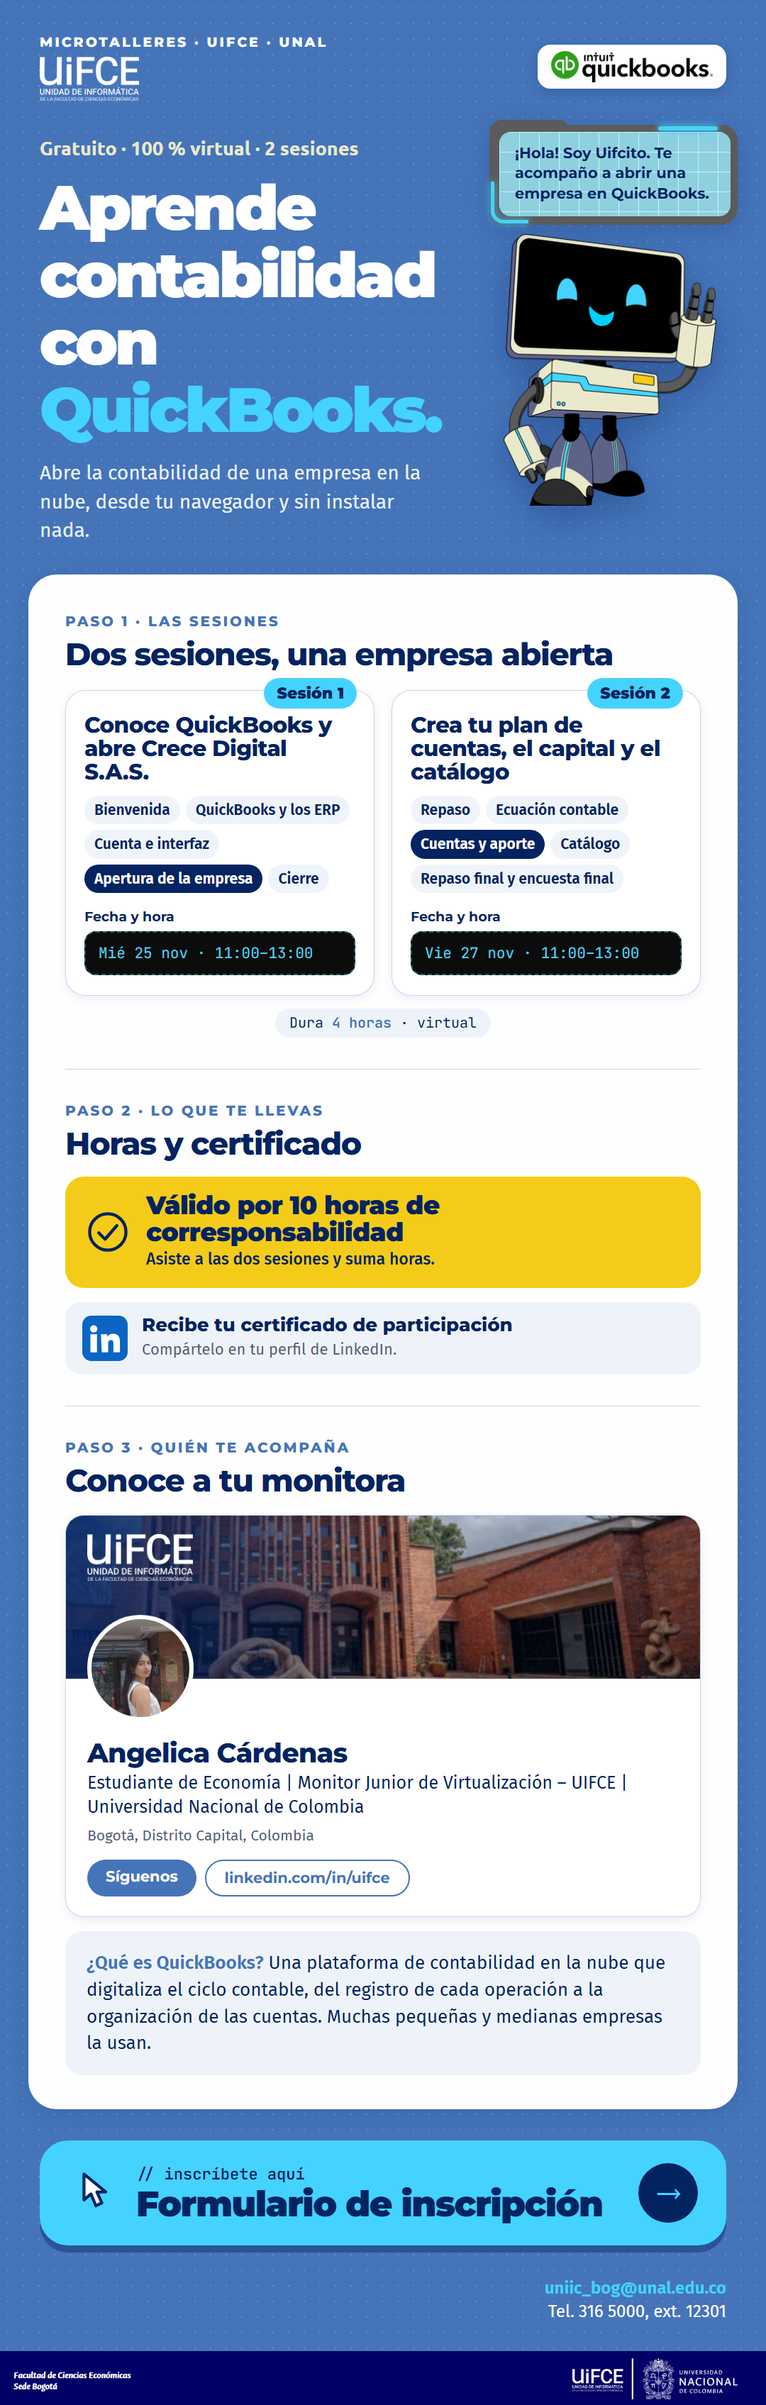
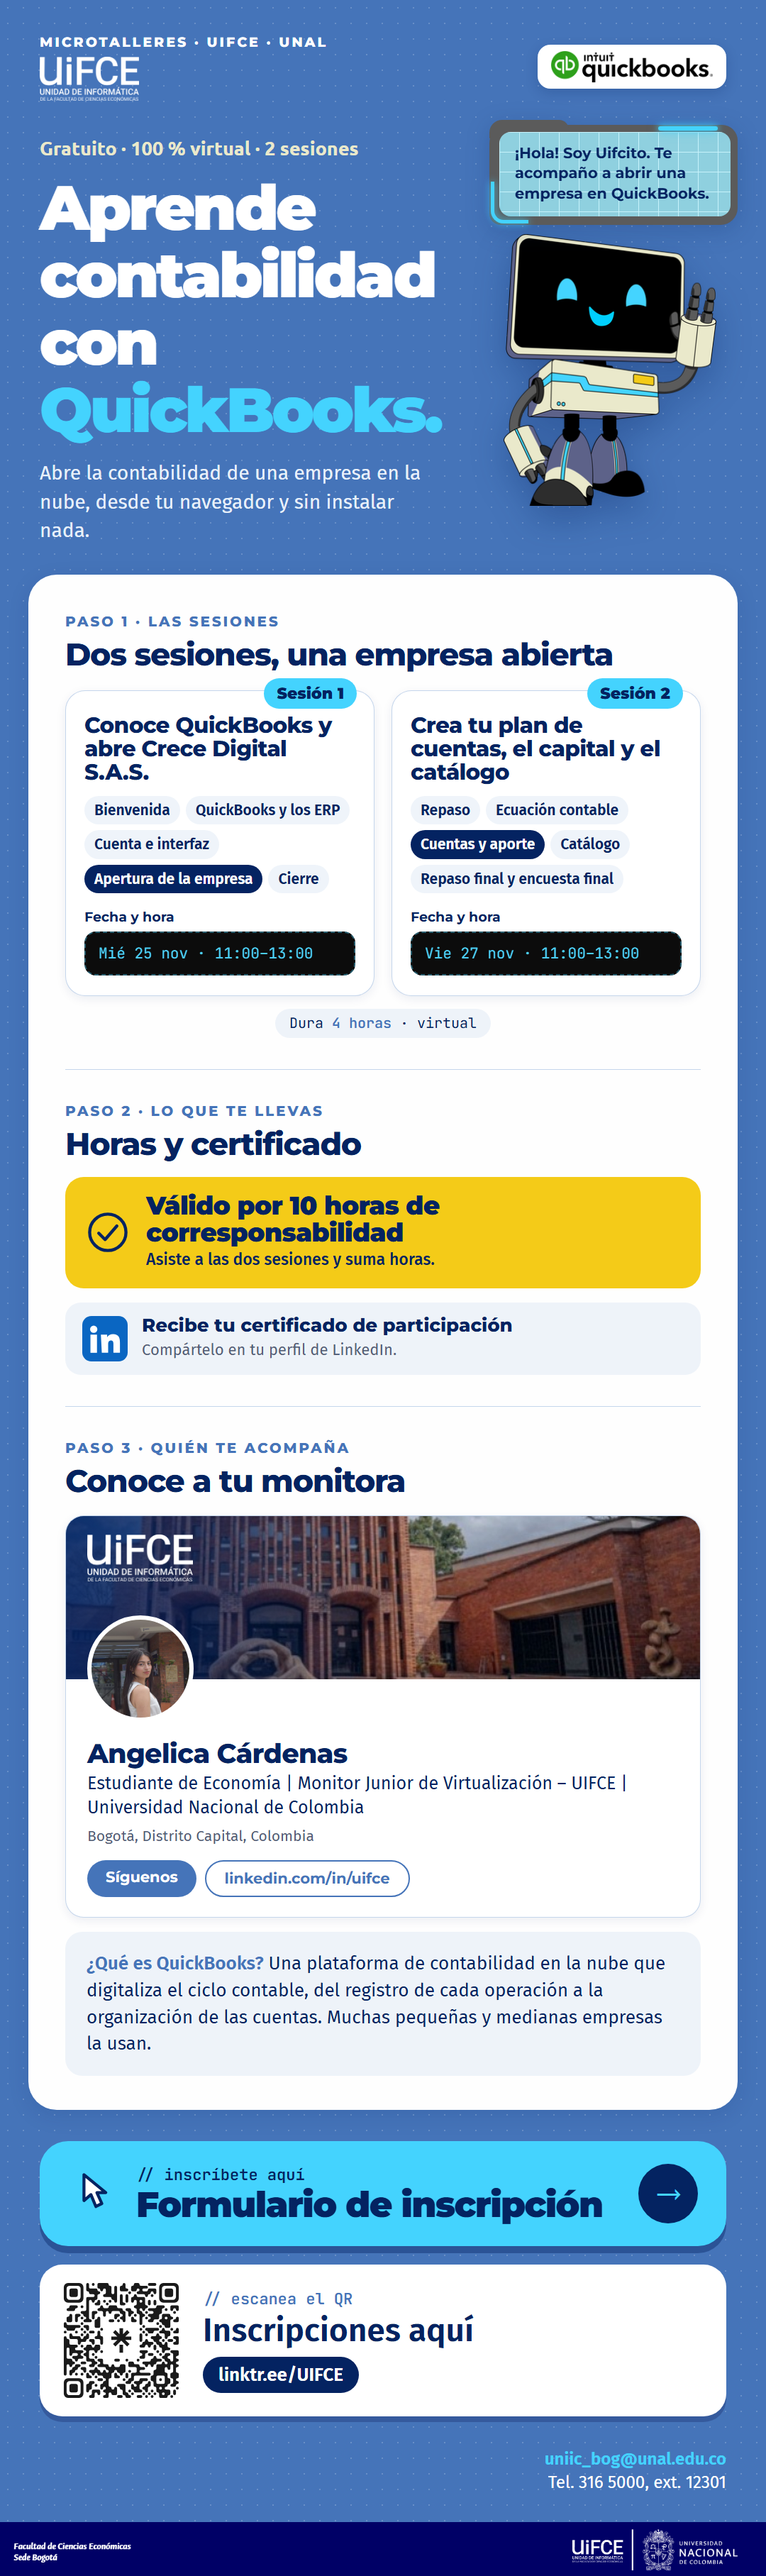
Agrega QR a linktr.ee/UIFCE (Inscripciones aquí) en las 4 propuestas y ajusta alturas

diff --git a/index.html b/index.html
@@ -44,24 +44,24 @@
 <main>
   <section class="panel" id="p1" role="tabpanel" aria-labelledby="tab-1">
     <div class="actions"><a href="propuesta-1/infografia.png" download>Descargar PNG ↓</a></div>
-    <div class="frame" id="frame1"><iframe id="if1" src="propuesta-1/index.html" title="Propuesta 1" scrolling="no" width="1080" height="3563"></iframe></div>
+    <div class="frame" id="frame1"><iframe id="if1" src="propuesta-1/index.html" title="Propuesta 1" scrolling="no" width="1080" height="3803"></iframe></div>
   </section>
   <section class="panel" id="p2" role="tabpanel" aria-labelledby="tab-2" hidden>
     <div class="actions"><a href="propuesta-2/infografia.png" download>Descargar PNG ↓</a></div>
-    <div class="frame" id="frame2"><iframe id="if2" src="propuesta-2/index.html" title="Propuesta 2" scrolling="no" width="1080" height="4296"></iframe></div>
+    <div class="frame" id="frame2"><iframe id="if2" src="propuesta-2/index.html" title="Propuesta 2" scrolling="no" width="1080" height="4536"></iframe></div>
   </section>
   <section class="panel" id="p3" role="tabpanel" aria-labelledby="tab-3" hidden>
     <div class="actions"><a href="propuesta-3/infografia.png" download>Descargar PNG ↓</a></div>
-    <div class="frame" id="frame3"><iframe id="if3" src="propuesta-3/index.html" title="Propuesta 3" scrolling="no" width="1080" height="3391"></iframe></div>
+    <div class="frame" id="frame3"><iframe id="if3" src="propuesta-3/index.html" title="Propuesta 3" scrolling="no" width="1080" height="3631"></iframe></div>
   </section>
   <section class="panel" id="p4" role="tabpanel" aria-labelledby="tab-4" hidden>
     <div class="actions"><a href="propuesta-4/infografia.png" download>Descargar PNG ↓</a></div>
-    <div class="frame" id="frame4"><iframe id="if4" src="propuesta-4/index.html" title="Propuesta 4" scrolling="no" width="1080" height="2877"></iframe></div>
+    <div class="frame" id="frame4"><iframe id="if4" src="propuesta-4/index.html" title="Propuesta 4" scrolling="no" width="1080" height="3117"></iframe></div>
   </section>
 </main>
 <script>
   var tabs=document.querySelectorAll('nav button'), panels={1:document.getElementById('p1'),2:document.getElementById('p2'),3:document.getElementById('p3'),4:document.getElementById('p4')};
-  var SIZES={1:[1080,3563],2:[1080,4296],3:[1080,3391],4:[1080,2877]};
+  var SIZES={1:[1080,3803],2:[1080,4536],3:[1080,3631],4:[1080,3117]};
   function fit(){
     var cw=document.documentElement.clientWidth;
     [1,2,3,4].forEach(function(n){

diff --git a/propuesta-1/index.html b/propuesta-1/index.html
@@ -22,7 +22,7 @@
     --mono:Consolas,'SFMono-Regular',Menlo,monospace;
   }
   *{box-sizing:border-box;margin:0;padding:0}
-  body{width:1080px;height:3563px;background:var(--canvas);font-family:var(--font);color:var(--navy);position:relative;overflow:hidden}
+  body{width:1080px;height:3803px;background:var(--canvas);font-family:var(--font);color:var(--navy);position:relative;overflow:hidden}
 
   /* ---------- Encabezado de boletín ---------- */
   .top{display:flex;height:112px;background:#fff}
@@ -161,6 +161,11 @@
   .foot .contact{text-align:right;font-size:26px;line-height:1.4}
   .foot .contact strong{color:var(--yellow);font-weight:700}
   .btn{display:inline-block;background:var(--cyan);color:var(--navy);border-radius:999px;padding:14px 30px;font-weight:800;font-size:28px}
+  .qrc{display:flex;align-items:center;gap:30px;margin:26px 0 0;background:#fff;border-radius:32px;padding:22px 30px;text-decoration:none;color:var(--navy);box-shadow:0 8px 0 rgba(0,0,60,.22)}
+  .qrc img{width:170px;height:170px;flex:none;display:block}
+  .qrc small{display:block;font-family:var(--mono);font-size:22px;font-weight:700;color:var(--soft)}
+  .qrc b{display:block;font-weight:800;font-size:46px;line-height:1.05;margin-top:4px;color:var(--navy)}
+  .qrc i{display:inline-block;margin-top:12px;font-style:normal;background:var(--navy);color:#fff;border-radius:999px;padding:7px 22px;font-size:26px;font-weight:700}
 </style>
 </head>
 <body>
@@ -265,6 +270,7 @@
 <div class="bar-sec" style="margin-top:56px"><span class="mono">05 / Participa</span><span class="mono r">// inscripciones</span></div>
 <section class="sec">
   <a class="go" href="https://forms.gle/NDuZddRCizTjMTBQ8" target="_blank" rel="noopener"><svg viewBox="0 0 50 50" width="64" height="64" aria-hidden="true" style="flex:none"><path d="M16 6v26l7-6 5 12 6-3-5-11h9z" fill="#FFFF00" stroke="#000066" stroke-width="3" stroke-linejoin="round"/></svg><span class="gt"><small>// inscríbete aquí</small><b>Formulario de inscripción</b></span><span class="ga">→</span></a>
+  <a class="qrc" href="https://linktr.ee/UIFCE" target="_blank" rel="noopener"><img src="assets/qr-uifce.svg" alt="Código QR a linktr.ee/UIFCE"><span><small>// escanea el QR</small><b>Inscripciones aquí</b><i>linktr.ee/UIFCE</i></span></a>
 </section>
 
 <footer class="foot">

diff --git a/propuesta-4/index.html b/propuesta-4/index.html
@@ -63,6 +63,11 @@
   .go b{display:block;font-weight:800;font-size:52px;line-height:1.05;letter-spacing:-.01em}
   .go .ga{flex:none;width:88px;height:88px;border-radius:50%;background:var(--navy);color:var(--gold);display:flex;align-items:center;justify-content:center;font-size:52px;font-weight:800}
   .footer{display:block;width:1080px;position:relative}
+  .qrc{display:flex;align-items:center;gap:30px;margin:26px 0 0;background:#fff;border-radius:32px;padding:22px 30px;text-decoration:none;color:var(--navy);box-shadow:0 8px 0 rgba(0,0,60,.22)}
+  .qrc img{width:170px;height:170px;flex:none;display:block}
+  .qrc small{display:block;font-family:var(--font);font-size:22px;font-weight:700;color:var(--blue)}
+  .qrc b{display:block;font-weight:800;font-size:46px;line-height:1.05;margin-top:4px;color:var(--navy)}
+  .qrc i{display:inline-block;margin-top:12px;font-style:normal;background:var(--navy);color:#fff;border-radius:999px;padding:7px 22px;font-size:26px;font-weight:700}
 </style>
 </head>
 <body>
@@ -103,6 +108,7 @@
   <p class="what"><b>¿Qué es QuickBooks?</b> Una plataforma de contabilidad en la nube que digitaliza el ciclo contable, del registro de cada operación a la organización de las cuentas. Muchas pequeñas y medianas empresas la usan.</p>
 
 <a class="go" href="https://forms.gle/NDuZddRCizTjMTBQ8" target="_blank" rel="noopener"><svg viewBox="0 0 50 50" width="76" height="76" aria-hidden="true" style="flex:none"><path d="M16 6v26l7-6 5 12 6-3-5-11h9z" fill="#F7C32E" stroke="#04255f" stroke-width="3" stroke-linejoin="round"/></svg><span class="gt"><small>Inscríbete aquí</small><b>Formulario de inscripción</b></span><span class="ga">→</span></a>
+  <a class="qrc" href="https://linktr.ee/UIFCE" target="_blank" rel="noopener"><img src="assets/qr-uifce.svg" alt="Código QR a linktr.ee/UIFCE"><span><small>// escanea el QR</small><b>Inscripciones aquí</b><i>linktr.ee/UIFCE</i></span></a>
   <div class="cta" style="justify-content:flex-end">
     <div class="contact"><strong>uniic_bog@unal.edu.co</strong><br>Tel. 316 5000, ext. 12301<br>LinkedIn: <strong>linkedin.com/in/uifce</strong></div>
   </div>

diff --git a/propuesta-2/index.html b/propuesta-2/index.html
@@ -110,6 +110,11 @@
   .go b{display:block;font-weight:800;font-size:56px;line-height:1.02;letter-spacing:-.01em}
   .go .ga{flex:none;width:92px;height:92px;border-radius:50%;background:var(--navy);color:var(--gold);display:flex;align-items:center;justify-content:center;font-size:54px;font-weight:800}
   .footer{display:block;width:1080px;margin-top:56px}
+  .qrc{display:flex;align-items:center;gap:30px;margin:26px 0 0;background:#fff;border-radius:32px;padding:22px 30px;text-decoration:none;color:var(--navy);box-shadow:0 8px 0 rgba(0,0,60,.22)}
+  .qrc img{width:170px;height:170px;flex:none;display:block}
+  .qrc small{display:block;font-family:var(--mono);font-size:22px;font-weight:700;color:var(--blue)}
+  .qrc b{display:block;font-weight:800;font-size:46px;line-height:1.05;margin-top:4px;color:var(--navy)}
+  .qrc i{display:inline-block;margin-top:12px;font-style:normal;background:var(--navy);color:#fff;border-radius:999px;padding:7px 22px;font-size:26px;font-weight:700}
 </style>
 </head>
 <body>
@@ -182,6 +187,7 @@
   </section>
 
 <a class="go" href="https://forms.gle/NDuZddRCizTjMTBQ8" target="_blank" rel="noopener"><svg viewBox="0 0 50 50" width="76" height="76" aria-hidden="true" style="flex:none"><path d="M16 6v26l7-6 5 12 6-3-5-11h9z" fill="#F7C32E" stroke="#000066" stroke-width="3" stroke-linejoin="round"/></svg><span class="gt"><small>// inscríbete aquí</small><b>Formulario de inscripción</b></span><span class="ga">→</span></a>
+  <a class="qrc" href="https://linktr.ee/UIFCE" target="_blank" rel="noopener"><img src="assets/qr-uifce.svg" alt="Código QR a linktr.ee/UIFCE"><span><small>// escanea el QR</small><b>Inscripciones aquí</b><i>linktr.ee/UIFCE</i></span></a>
   <div class="cta" style="justify-content:flex-end">
     <div class="contact"><strong>uniic_bog@unal.edu.co</strong><br>Tel. 316 5000, ext. 12301<br>LinkedIn: <strong>linkedin.com/in/uifce</strong></div>
   </div>

diff --git a/propuesta-3/index.html b/propuesta-3/index.html
@@ -95,6 +95,11 @@
   .contact{text-align:right;color:#fff;font-size:24px;line-height:1.35}
   .contact strong{color:var(--cyan);font-weight:600}
   .footer{width:1080px;display:block}
+  .qrc{display:flex;align-items:center;gap:30px;margin:26px 56px 0;background:#fff;border-radius:32px;padding:22px 30px;text-decoration:none;color:var(--navy);box-shadow:0 8px 0 rgba(0,0,60,.22)}
+  .qrc img{width:170px;height:170px;flex:none;display:block}
+  .qrc small{display:block;font-family:var(--f-code);font-size:22px;font-weight:700;color:var(--primary)}
+  .qrc b{display:block;font-weight:800;font-size:46px;line-height:1.05;margin-top:4px;color:var(--navy)}
+  .qrc i{display:inline-block;margin-top:12px;font-style:normal;background:var(--navy);color:#fff;border-radius:999px;padding:7px 22px;font-size:26px;font-weight:700}
 </style>
 </head>
 <body>
@@ -162,6 +167,7 @@
 </main>
 
 <a class="go" href="https://forms.gle/NDuZddRCizTjMTBQ8" target="_blank" rel="noopener"><svg viewBox="0 0 50 50" width="70" height="70" aria-hidden="true" style="flex:none"><path d="M16 6v26l7-6 5 12 6-3-5-11h9z" fill="#FFFFFF" stroke="#042361" stroke-width="3" stroke-linejoin="round"/></svg><span class="gt"><small>// inscríbete aquí</small><b>Formulario de inscripción</b></span><span class="ga">→</span></a>
+  <a class="qrc" href="https://linktr.ee/UIFCE" target="_blank" rel="noopener"><img src="assets/qr-uifce.svg" alt="Código QR a linktr.ee/UIFCE"><span><small>// escanea el QR</small><b>Inscripciones aquí</b><i>linktr.ee/UIFCE</i></span></a>
 <div class="cta" style="justify-content:flex-end"><div class="contact"><strong>uniic_bog@unal.edu.co</strong><br>Tel. 316 5000, ext. 12301</div></div>
 <img class="footer" src="assets/banner-unal-fce.png" alt="Facultad de Ciencias Económicas, Sede Bogotá · UIFCE · Universidad Nacional de Colombia">
 </body>
